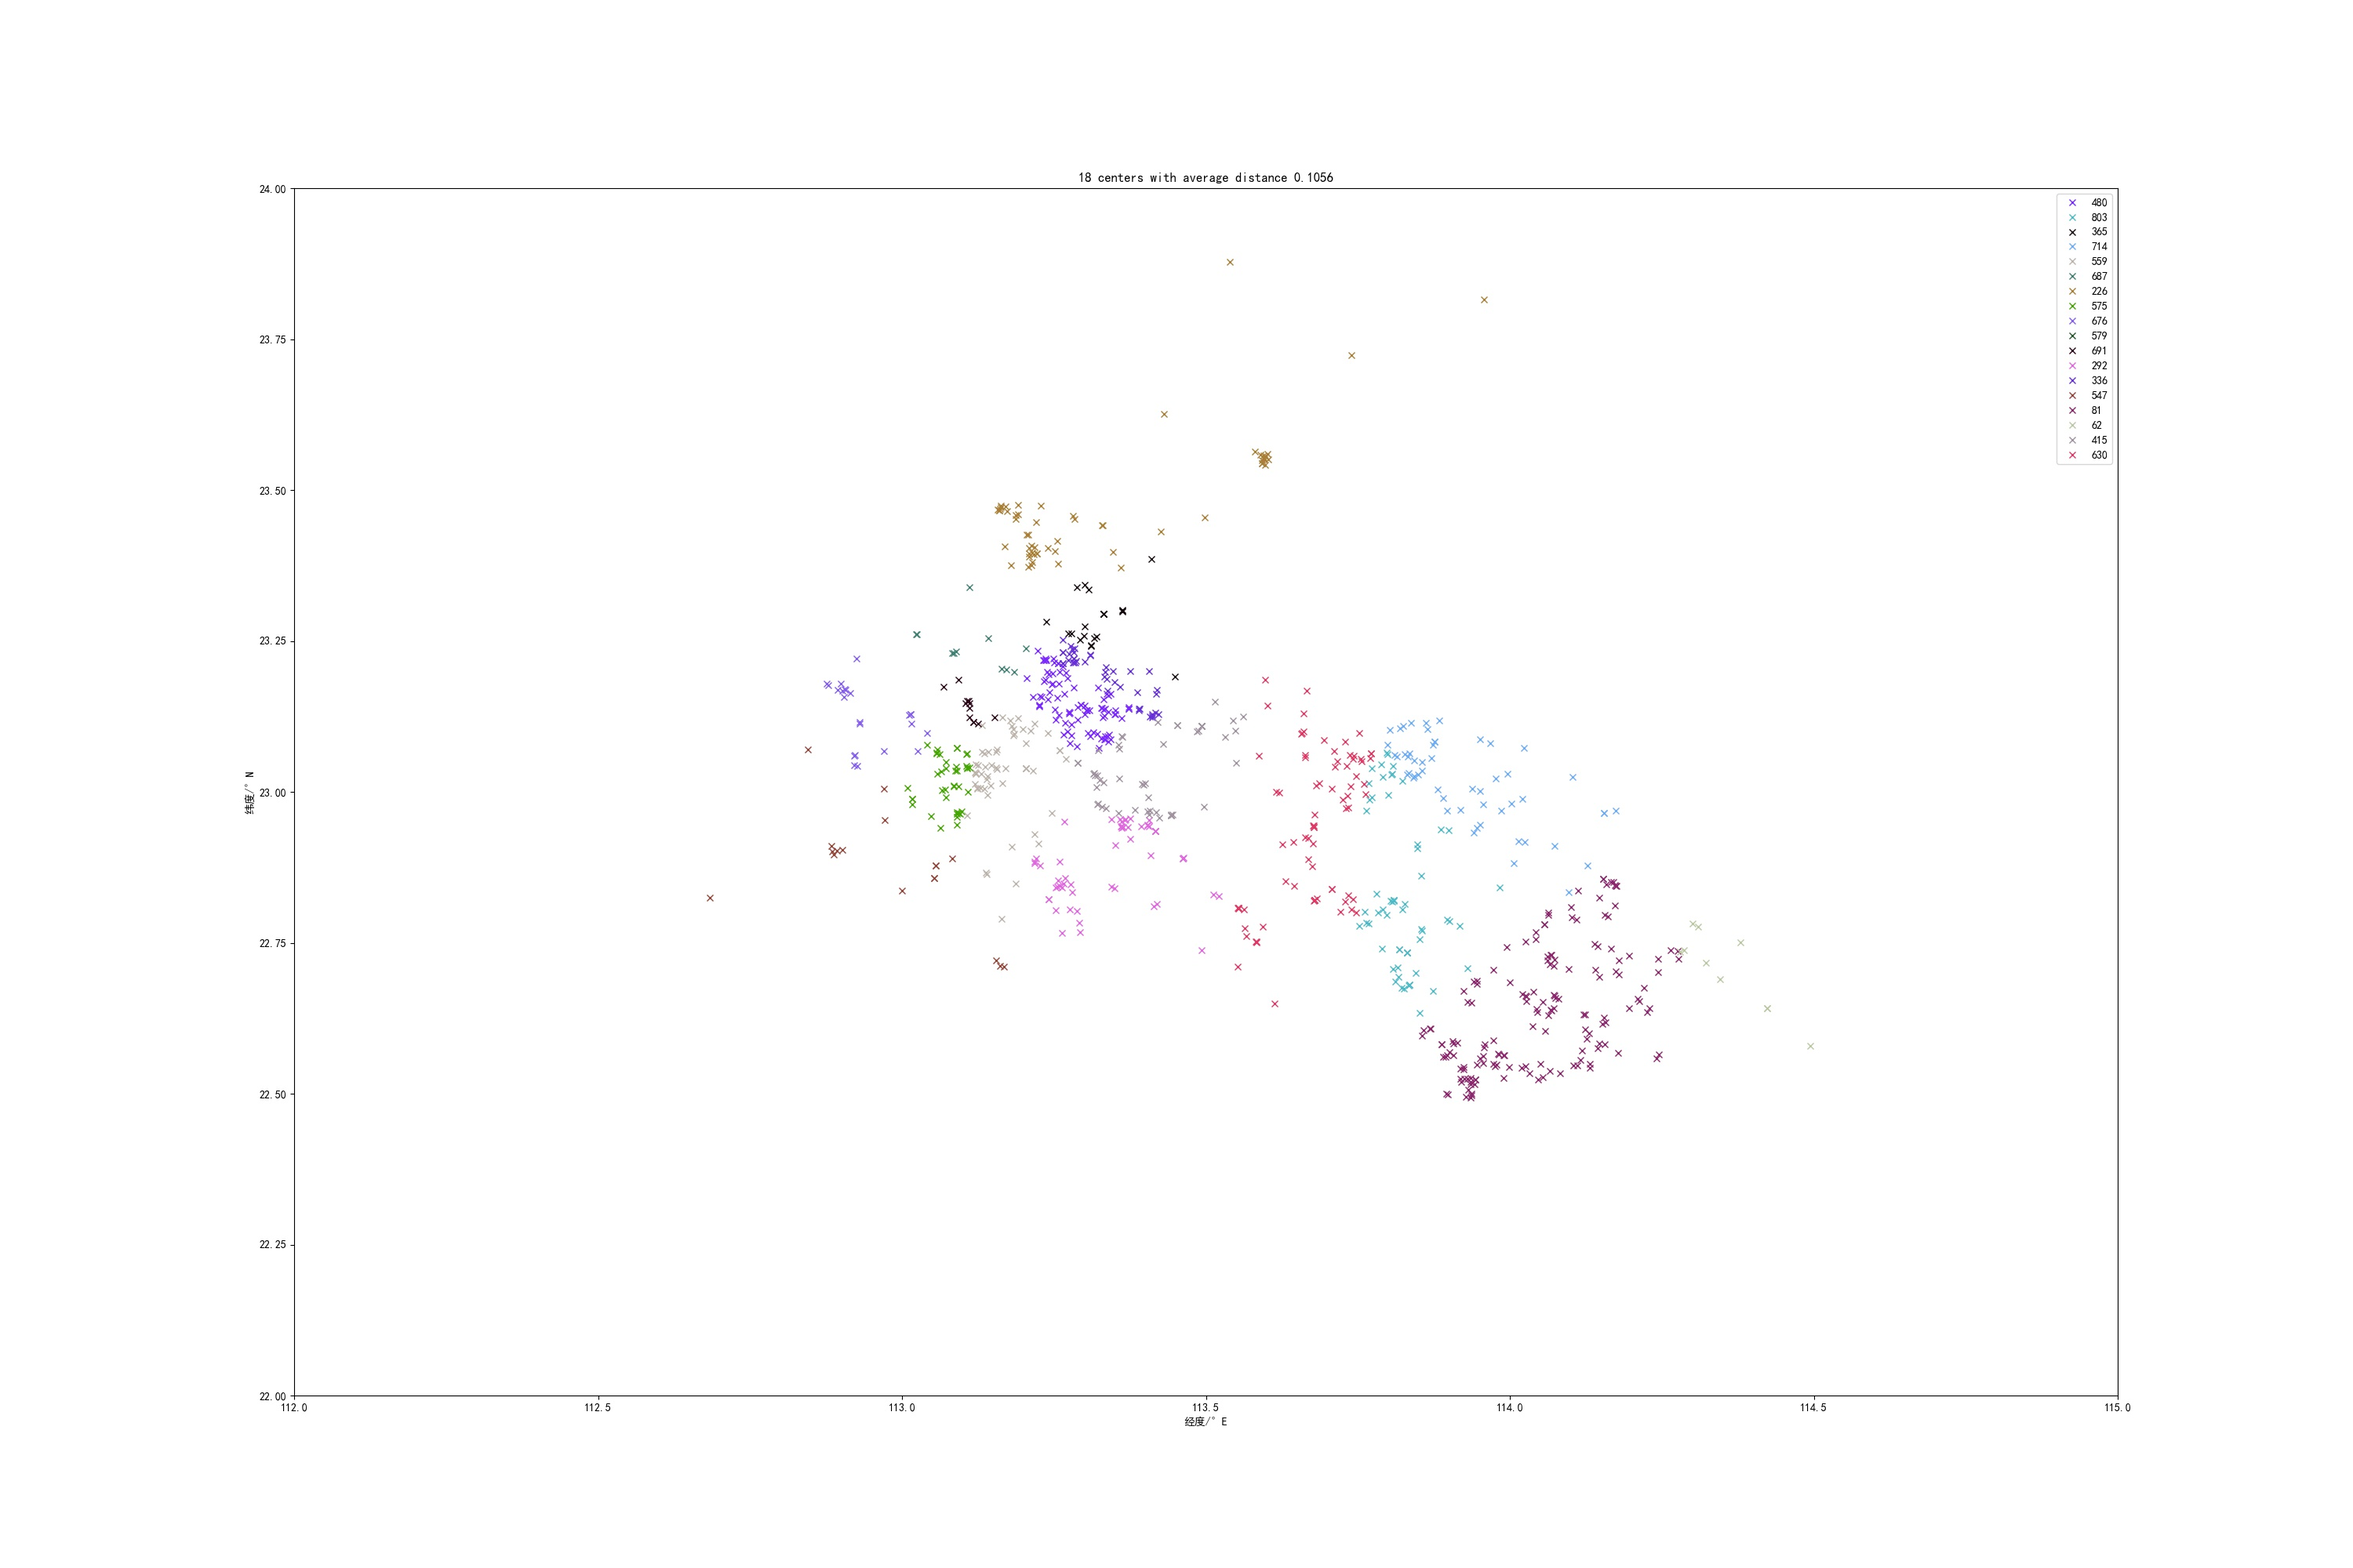
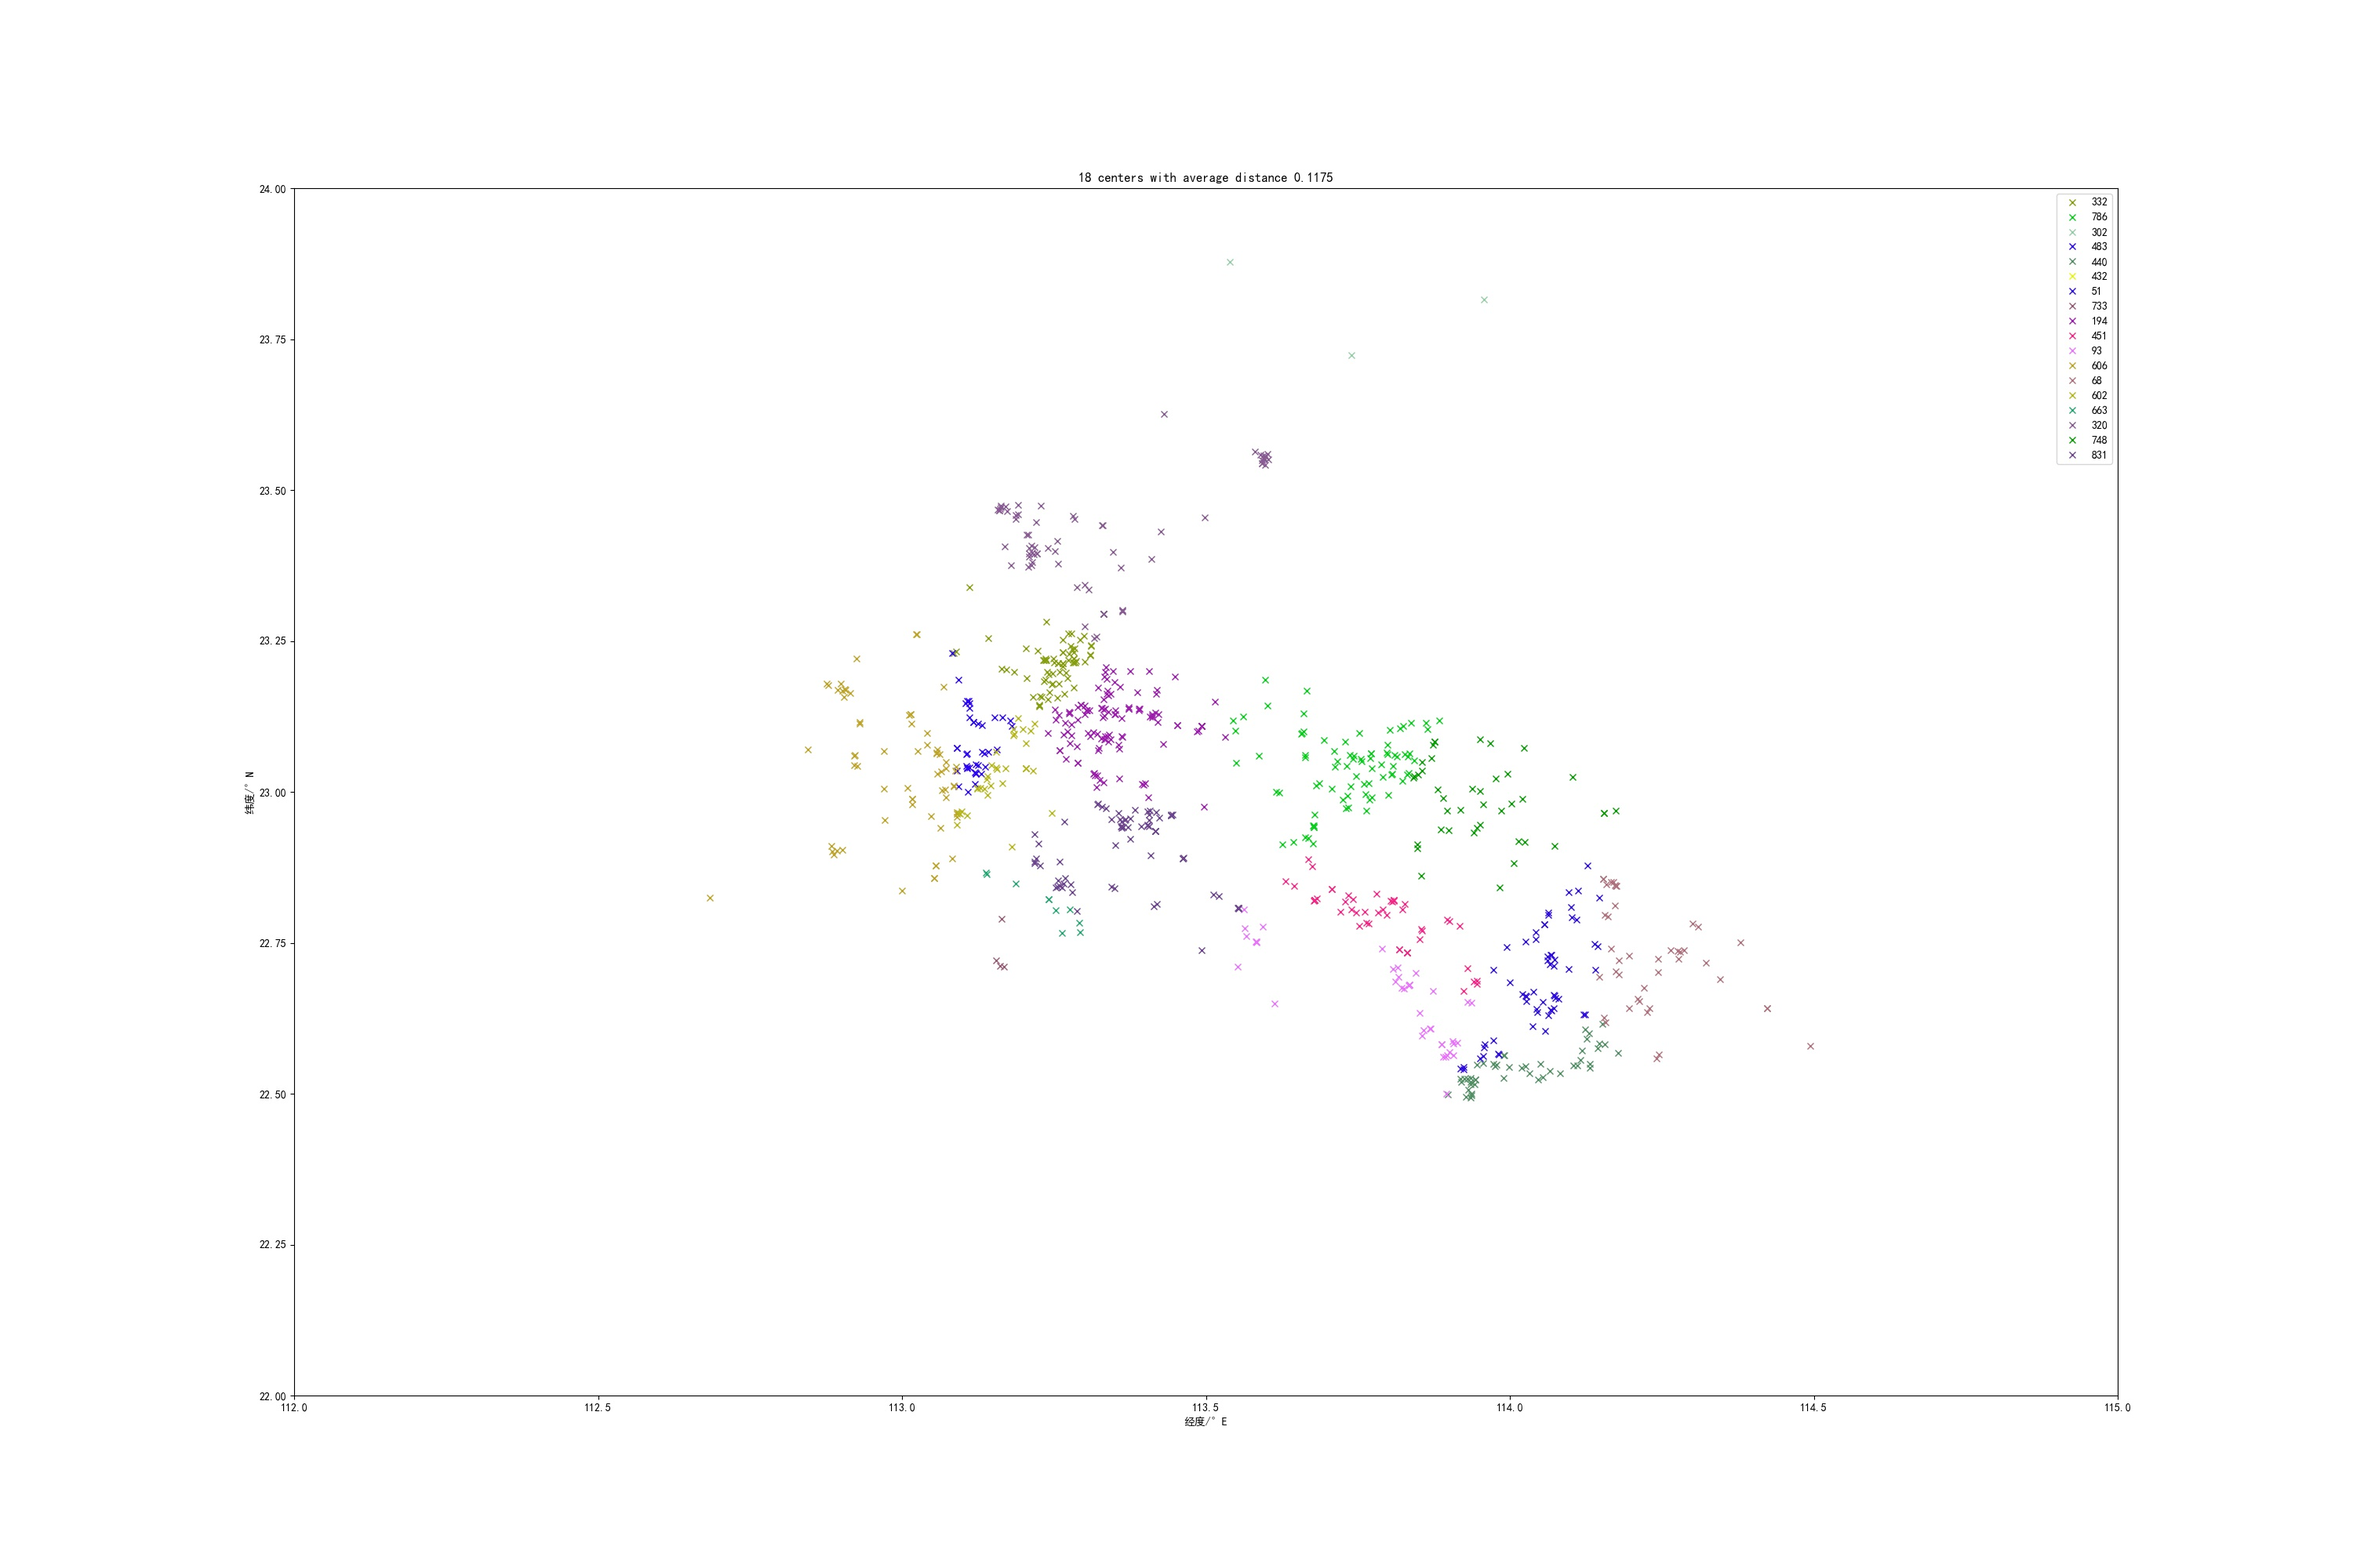
201907171241

diff --git a/国赛训练/2019培训4/code/configIO.py b/国赛训练/2019培训4/code/configIO.py
@@ -1,0 +1,36 @@
+import glob
+import os
+
+configPath = 'config'
+
+
+def configWrite(typeCounter: int, coreList: list)->None:
+    if not os.path.exists(configPath):
+        os.makedirs(configPath)
+    try:
+        with open(os.path.join(configPath, str(typeCounter)+'.config'), 'w') as w:
+            w.write(str(typeCounter)+'\n')
+            for i in coreList:
+                w.write(str(i) + '\n')
+    except Exception as e:
+        print('😔[ERROR]\t%s' % str(e))
+
+
+def configRead(fileName: str) -> (int, list):
+    try:
+        with open(fileName, 'r') as r:
+            typeCounter = int(r.readline())
+            coreList = r.readlines()
+            for i in range(len(coreList)):
+                coreList[i] = int(coreList[i])
+            return (typeCounter, coreList)
+    except Exception as e:
+        print('😔[ERROR]\t%s' % str(e))
+
+def fetchConfigList() -> tuple:
+    for fileName in glob.glob(configPath+'\*.config'):
+        print(fileName)
+
+
+if __name__ == '__main__':
+    print(configRead(os.path.join(configPath, '3.config')))

diff --git a/国赛训练/2019培训4/code/classifier.py b/国赛训练/2019培训4/code/classifier.py
@@ -4,6 +4,7 @@ from random import randint, random
 import matplotlib.pyplot as plt
 
 from dataReader import dataReader
+from configIO import *
 
 
 class Classifier:
@@ -63,7 +64,7 @@ class Classifier:
             col = (random(), random(), random())
             handerList.append(
                 plt.plot([x[2] for x in i], [x[1] for x in i],
-                     'x', color=col)
+                         'x', color=col)
             )
         # plt.text(112.74, 23.8, str(self.coreList), ha='left', fontsize=8)
         plt.legend(self.coreList)
@@ -129,6 +130,7 @@ class Classifier:
                 conn += 1
         # 还原最佳聚类现场以便后续画图
         self.coreList = resList
+        configWrite(self.typeCount, self.coreList)
         self.calc()
         print('[info]\tdes finish with best score %f' % score)
         print(resList)
